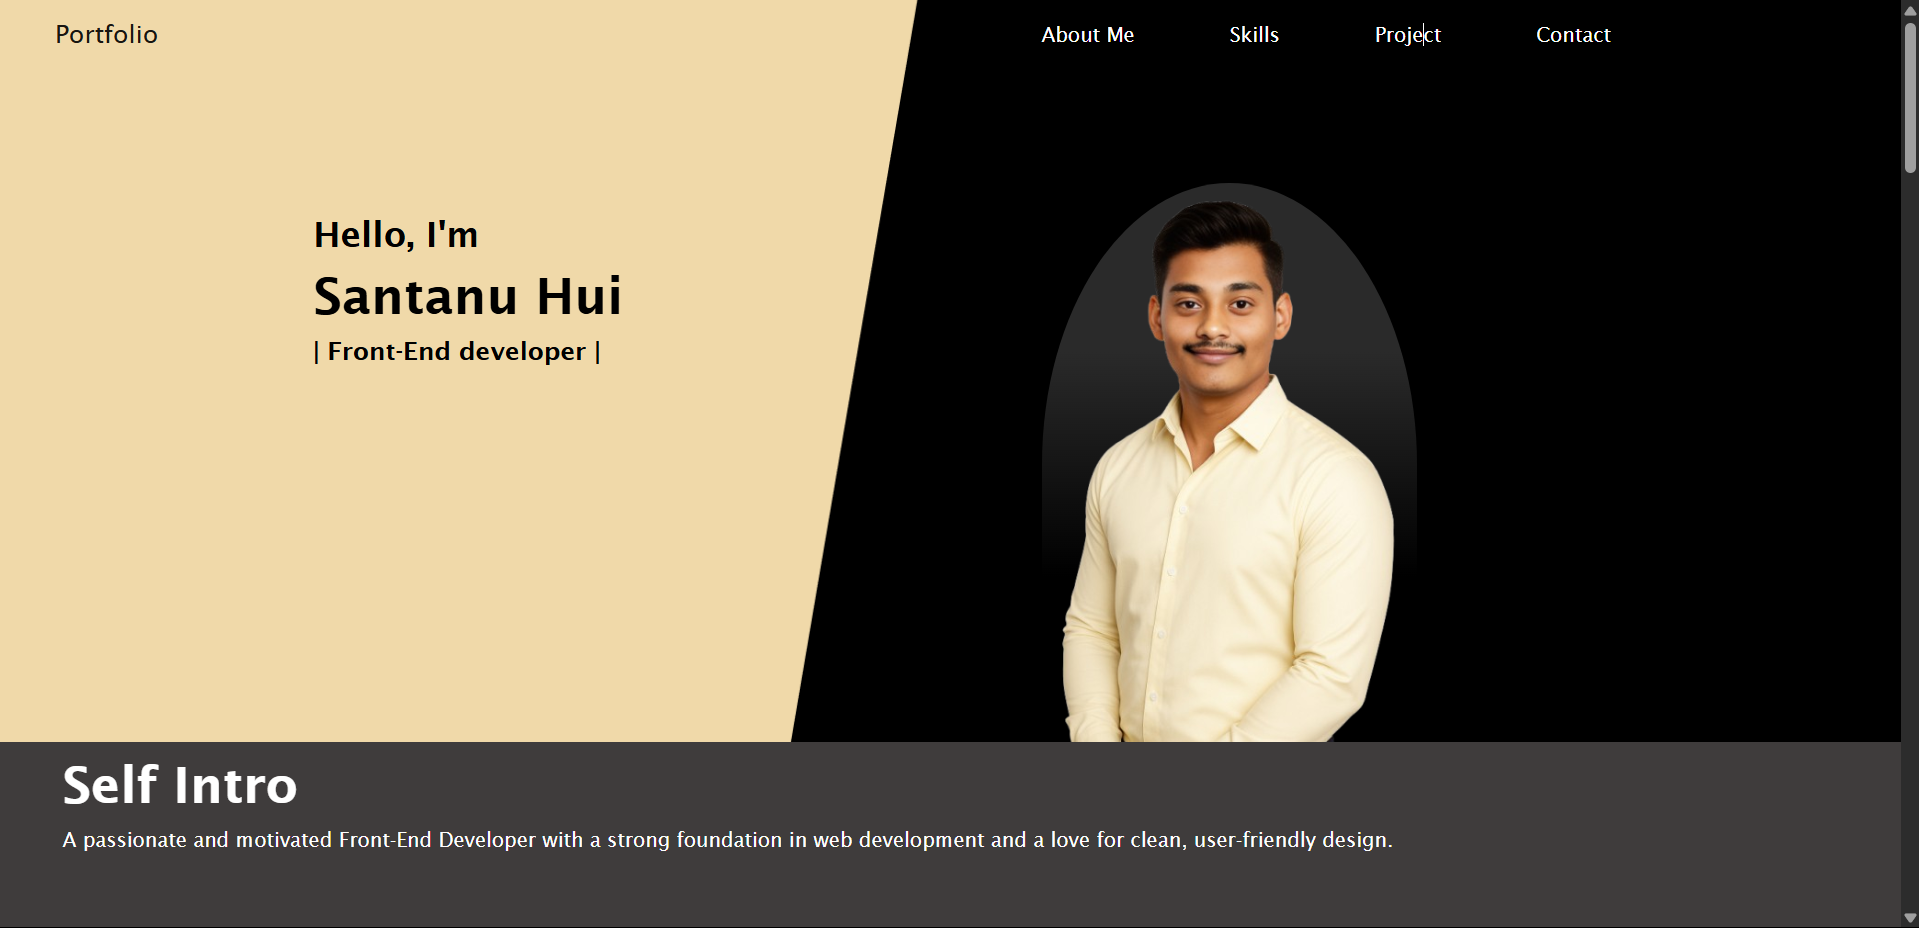
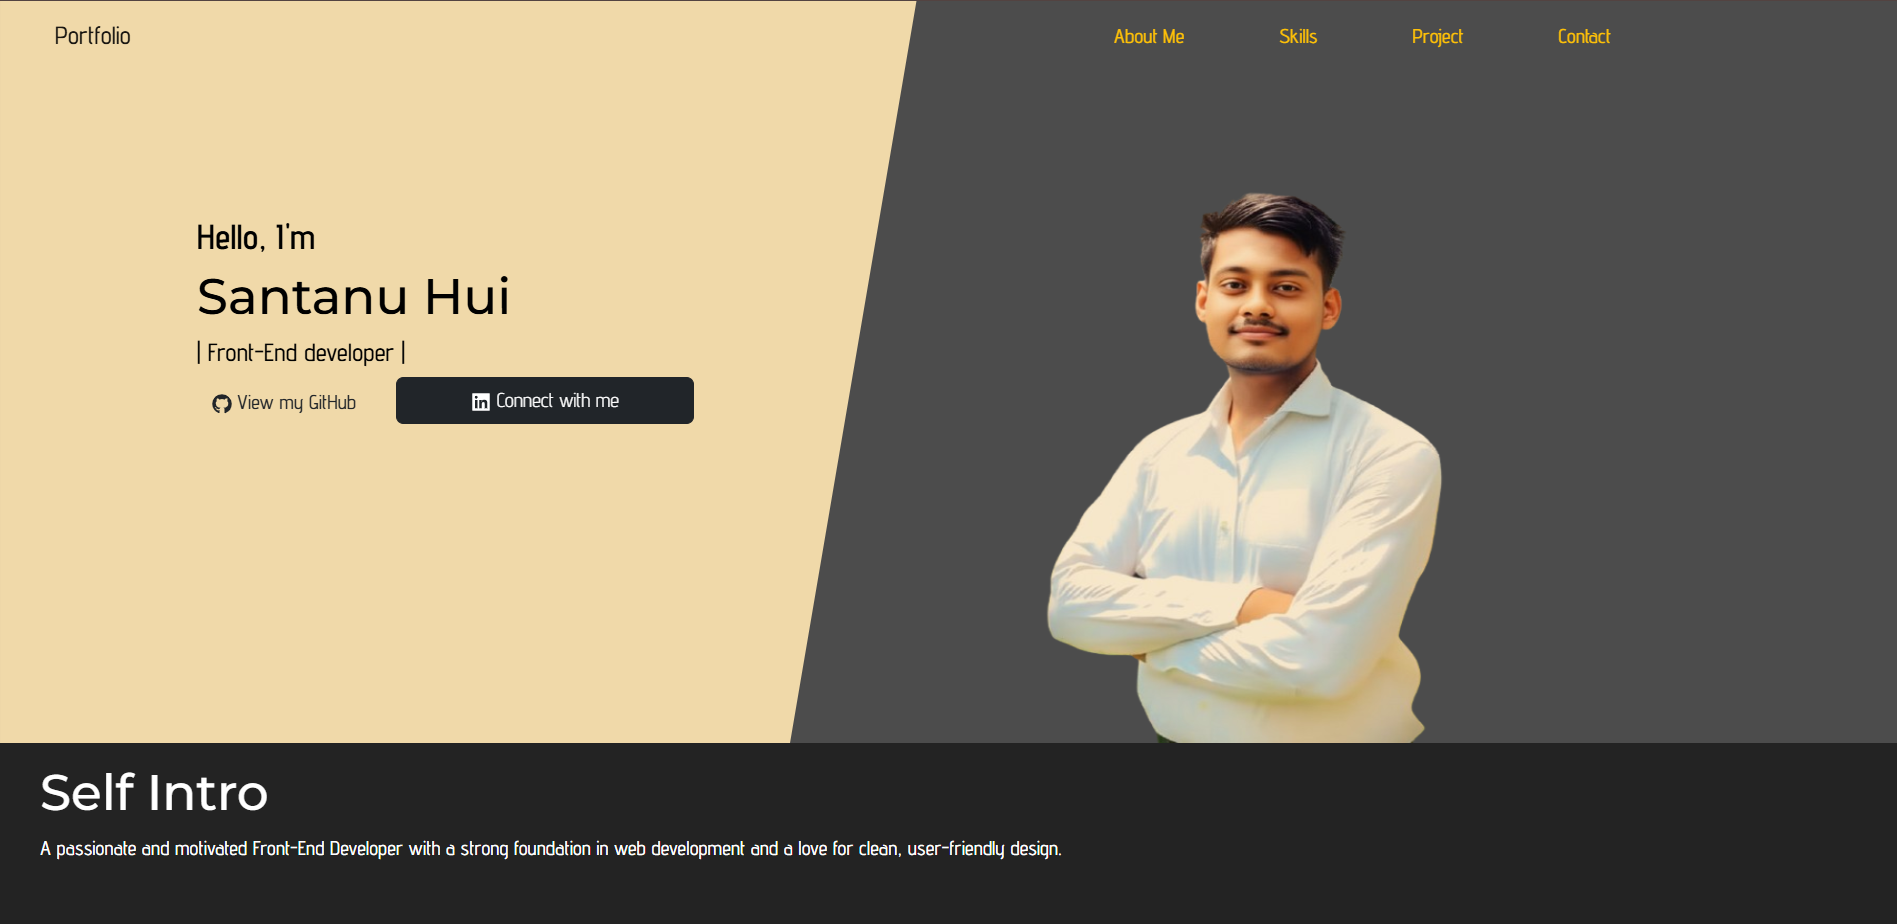
Change profile image and in project section, it open in new tab while click button

diff --git a/src/components/Project.tsx b/src/components/Project.tsx
@@ -9,29 +9,28 @@ import { useNavigate } from "react-router-dom";
 
 function Project() {
   const navigate = useNavigate();
-  const gotoweb = (idn: number) =>{
-    switch (idn){
+const gotoweb = (idn: number) => {
+  switch (idn) {
     case 1:
-      window.location.href = 'https://github.com/Vincenzo-alpha/Bus_yatra'      
+      window.open('https://github.com/Vincenzo-alpha/Bus_yatra', '_blank');
       break;
     case 2:
-      window.location.href = 'https://github.com/Vincenzo-alpha/Flipkart-clone'
+      window.open('https://github.com/Vincenzo-alpha/Flipkart-clone', '_blank');
       break;
     case 3:
-      window.location.href = 'https://github.com/Vincenzo-alpha/Rock-paper-scissor'
+      window.open('https://github.com/Vincenzo-alpha/Rock-paper-scissor', '_blank');
       break;
     case 4:
-      navigate('/develop') 
+      navigate('/develop');
       break;
     case 5:
-      window.location.href = 'https://github.com/Vincenzo-alpha/Uber-clone-bootstrap'      
+      window.open('https://github.com/Vincenzo-alpha/Uber-clone-bootstrap', '_blank');
       break;
     case 6:
-      window.location.href = ''      
+      window.open('', '_blank'); // Add your portfolio link here
       break;
-    
-    }
   }
+};
   return (
     <>
       <div className="forBgColor">

diff --git a/src/components/HeroSection.tsx b/src/components/HeroSection.tsx
@@ -26,7 +26,7 @@ function HeroSection() {
             </div>
           </div>
           <div className="section2">
-            <img className="photo" src="/src/assets/myph1.png" alt="" />
+            <img className="photo" src="/src/assets/myph2.png" alt="Profile_pic" />
             <div className="d-none design-box"></div>
           </div>
         </main>

diff --git a/src/components/Bio.tsx b/src/components/Bio.tsx
@@ -1,5 +1,5 @@
 import React from "react";
-import myph from "../assets/myph1.png";
+import myph from "../assets/myph2.png";
 import Footer from "./Footer";
 import { Link } from "react-router-dom";
 
